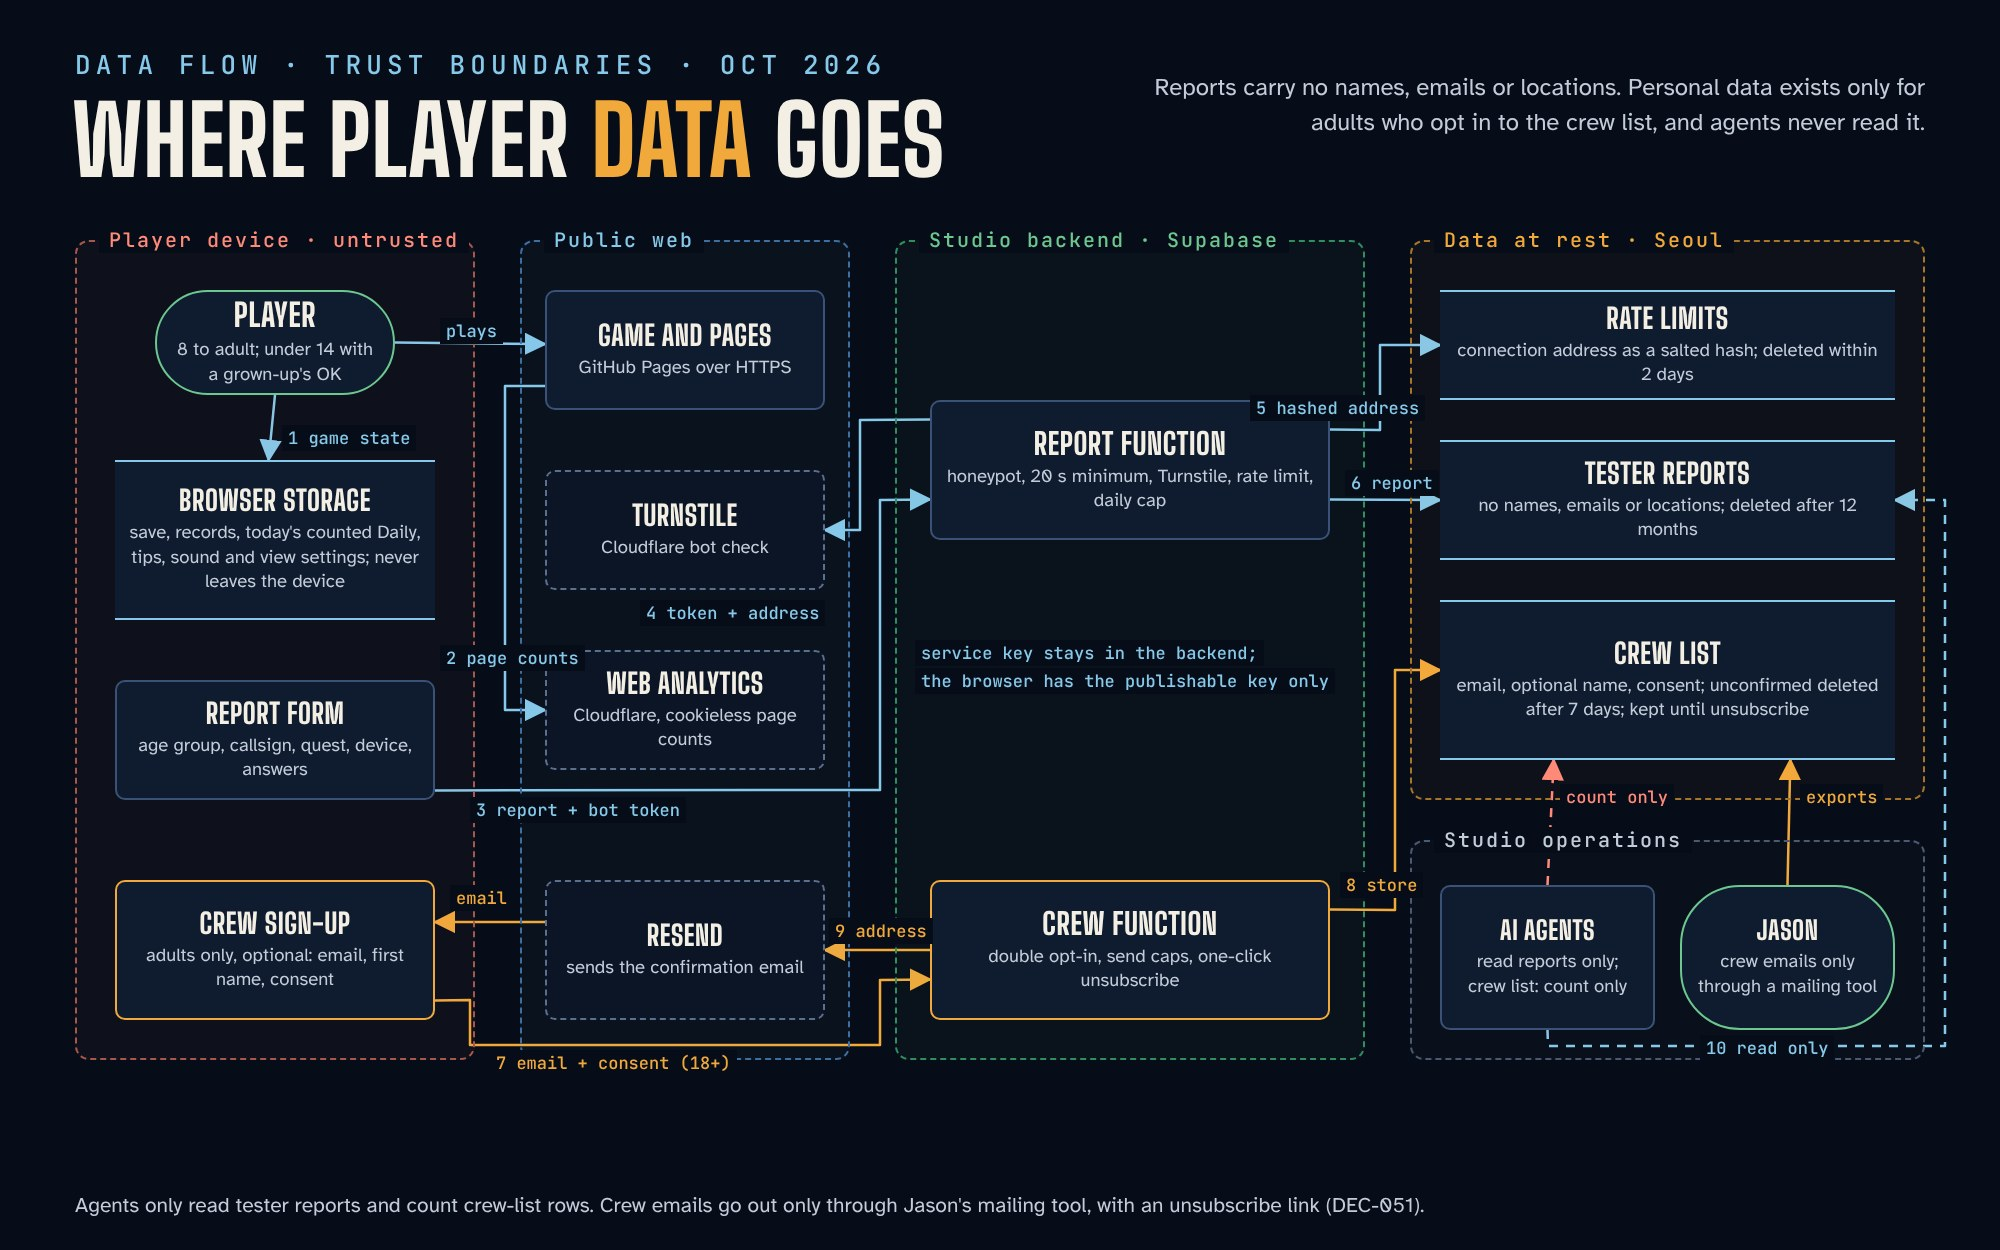
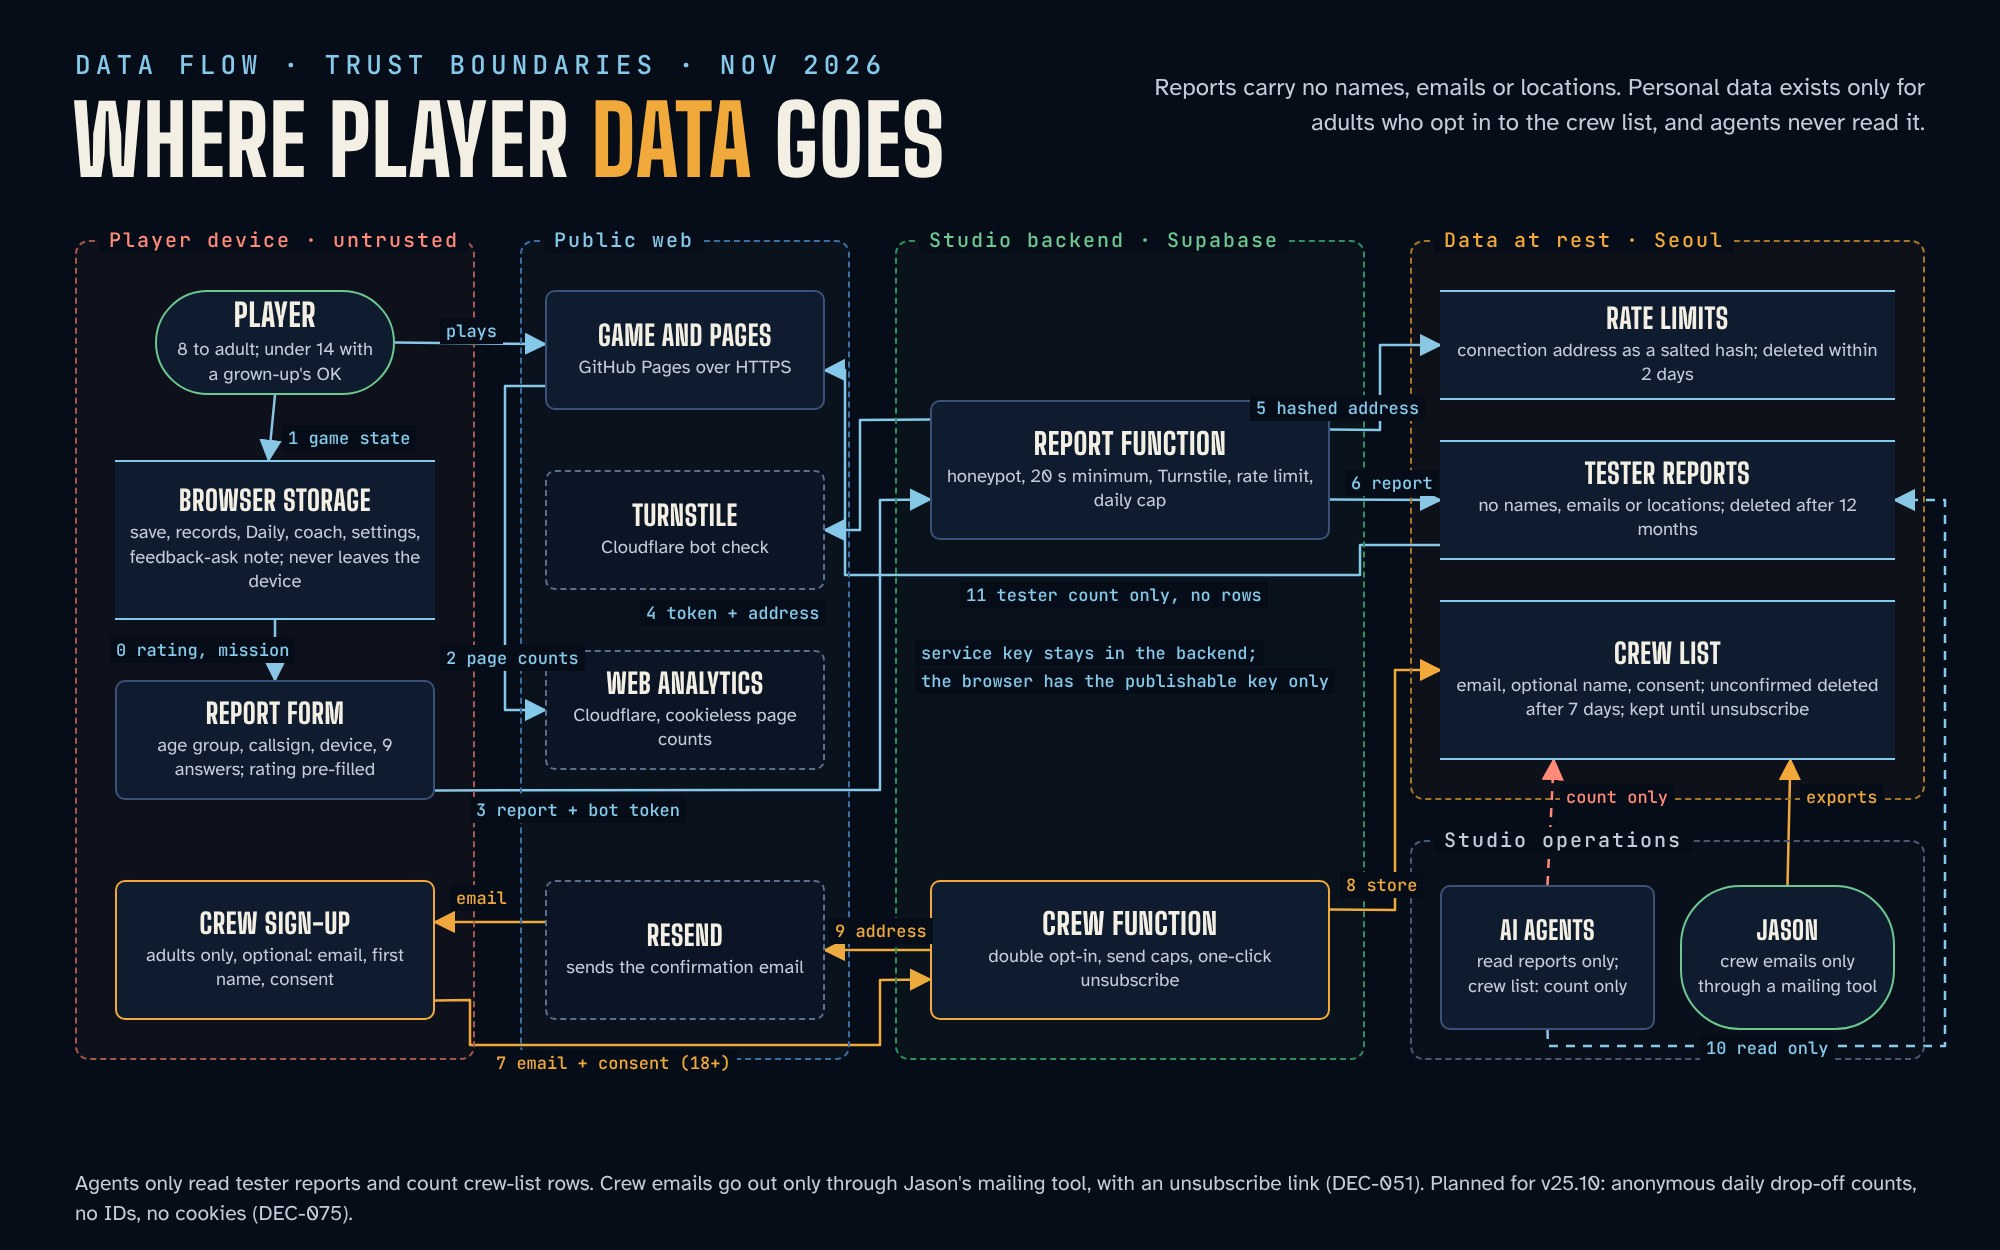
Forkline case study: system and data-flow diagrams updated for v25.9.1 (Nov 1)
Claude-Session: https://claude.ai/code/session_01DCQwAvz8r4roNvbzWQzrCE

diff --git a/forkline/index.html b/forkline/index.html
@@ -91,11 +91,11 @@
           <li><strong>Releases</strong> go to a preview site first and reach playforkline.com only through a pull request I merge.</li>
         </ul>
         <figure>
-          <img src="../assets/forkline/system-c4.jpg" width="2000" height="1250" loading="lazy" alt="C4 container diagram: the player reaches playforkline.com on GitHub Pages (homepage, game, report page, crew page); the report and crew pages call two Supabase functions that write to Postgres; outside services are Cloudflare Turnstile, Cloudflare Web Analytics, Resend email and Namecheap DNS; studio operations hold AI agents, GitHub, the tracker and the Review Desk, with Jason merging pull requests and answering approvals">
+          <img src="../assets/forkline/system-c4.jpg" width="2000" height="1250" loading="lazy" alt="C4 container diagram: the player reaches playforkline.com on GitHub Pages (homepage, game, report page, crew page); the report and crew pages call two Supabase functions that write to Postgres, and the homepage reads a count-only tester number; outside services are Cloudflare Turnstile, Cloudflare Web Analytics, Resend email, Namecheap DNS and Grok; studio operations hold AI agents, GitHub, the tracker, Google Drive with Grok's daily X reports, and the Command Center, with Jason merging pull requests and answering approvals">
           <figcaption>C4 container view: what runs where, and which outside services it depends on.</figcaption>
         </figure>
         <figure>
-          <img src="../assets/forkline/data-flow.jpg" width="2000" height="1250" loading="lazy" alt="Data flow diagram with five trust boundaries: player device, public web, studio backend, data at rest and studio operations. Game state stays in browser storage; reports go through the report function to tester reports; connection addresses are stored only as salted hashes; adult crew sign-ups go through the crew function to the crew list and a confirmation email; agents read reports only and count crew rows">
+          <img src="../assets/forkline/data-flow.jpg" width="2000" height="1250" loading="lazy" alt="Data flow diagram with five trust boundaries: player device, public web, studio backend, data at rest and studio operations. Game state and the feedback-ask note stay in browser storage; the game passes the rating and mission to the report form; reports go through the report function to tester reports; the homepage reads a tester count only; connection addresses are stored only as salted hashes; adult crew sign-ups go through the crew function to the crew list and a confirmation email; agents read reports only and count crew rows">
           <figcaption>Data flow with trust boundaries: what player data exists, where it goes and how long it stays.</figcaption>
         </figure>
       </section>
